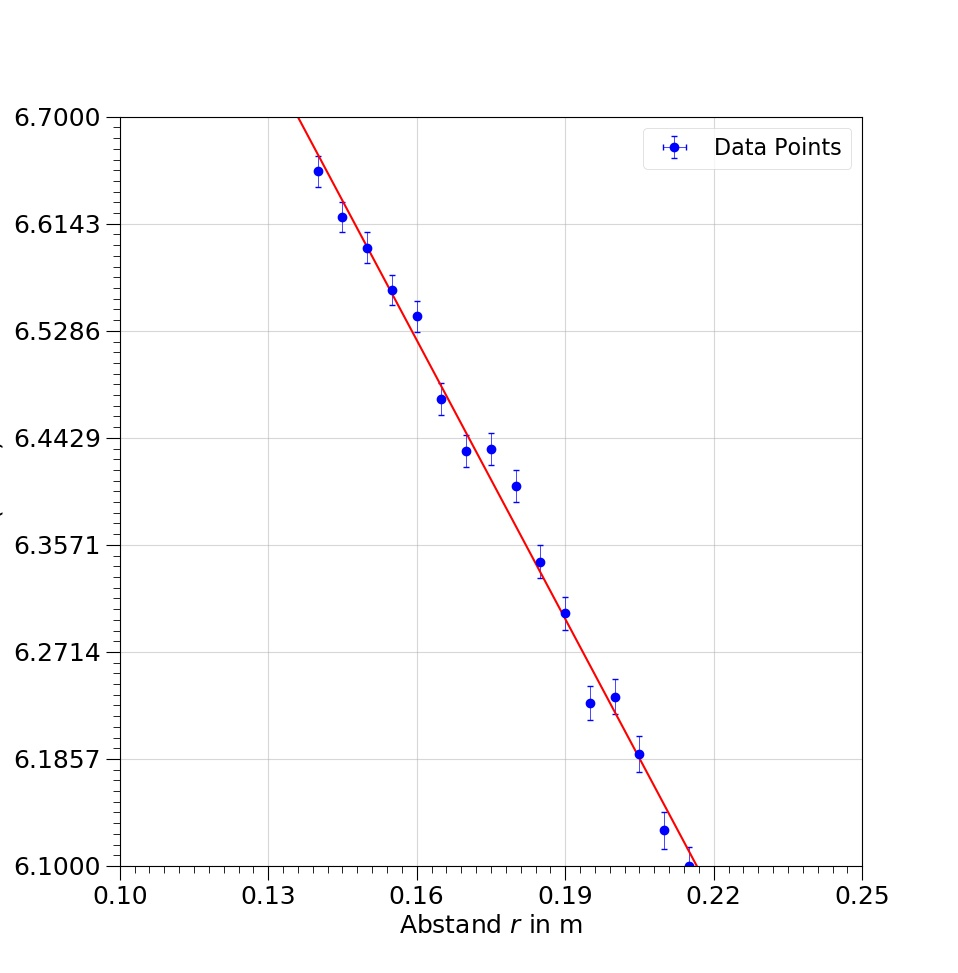
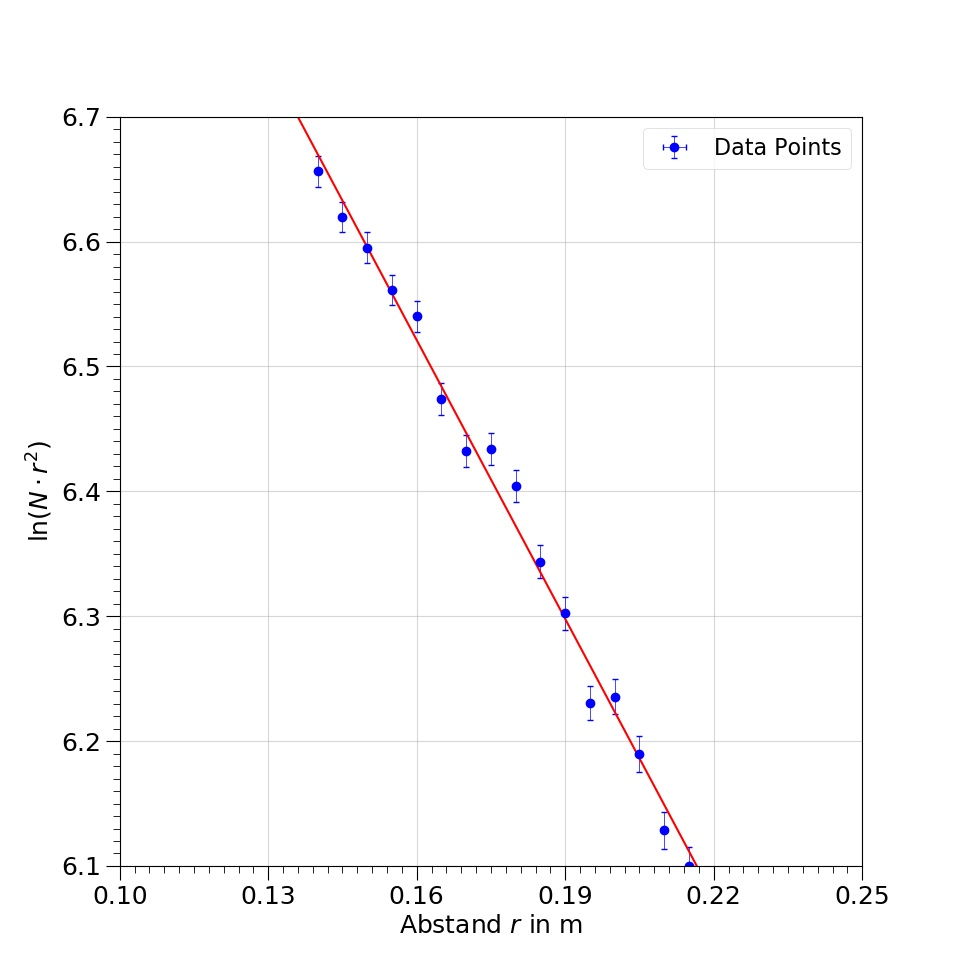
fig/plot.jpg

diff --git a/fit_template.py b/fit_template.py
@@ -26,8 +26,8 @@ y_err = delta
 
 print(y_err)
 # Achsenausschnitt auf der x und y Achse
-x_scal = np.array([0.1,0.3])
-y_scal = np.array([6,7])
+x_scal = np.array([0.1,0.25])
+y_scal = np.array([6.1,6.7])
 
 # FIGURE
 fig = plt.figure(figsize=(10,10))
@@ -47,11 +47,11 @@ perr_1 = np.sqrt(np.diag(pcov_1))
 
 
 ###################################### Hier nur Style #################################
-xmajor_ticks = np.arange(x_scal[0],x_scal[1]+0.01,(x_scal[1]-x_scal[0])/4)
-xminor_ticks = np.arange(x_scal[0],x_scal[1],(x_scal[1]-x_scal[0])/20)
+xmajor_ticks = np.arange(x_scal[0],x_scal[1]+0.01,(x_scal[1]-x_scal[0])/5)
+xminor_ticks = np.arange(x_scal[0],x_scal[1],(x_scal[1]-x_scal[0])/50)
 
-ymajor_ticks = np.arange(y_scal[0],y_scal[1]+0.1,(y_scal[1]-y_scal[0])/10)
-yminor_ticks = np.arange(y_scal[0],y_scal[1],(y_scal[1]-y_scal[0])/100)
+ymajor_ticks = np.arange(y_scal[0],y_scal[1]+0.001,(y_scal[1]-y_scal[0])/6)
+yminor_ticks = np.arange(y_scal[0],y_scal[1],(y_scal[1]-y_scal[0])/60)
 
 ax.set_xlim(x_scal[0],x_scal[1])
 ax.set_ylim(y_scal[0], y_scal[1])
@@ -76,7 +76,7 @@ ax.set_ylabel(r'$\ln(N\cdot r^2)$', fontsize=18)
 
 
 
-ax.errorbar(x_raw,y_raw, xerr=0, yerr=y_err, fmt='o', c='b', capsize=2, elinewidth=0.5,  label="ohne Cd") # Messdatenus
+ax.errorbar(x_raw,y_raw, xerr=0, yerr=y_err, fmt='o', c='b', capsize=2, elinewidth=0.5,  label="Data Points") # Messdatenus
 ax.plot(x_fit,y_fit, 'r')
 ax.text(0.15, 6.8, r'$\ln(N\cdot r^2)$ = '+str(a_1)+r'$\pm$'+str(round(perr_1[0],3))+r'$\cdot r^{-1}}$ + '+ str(abs(b_1))+r'$\pm$'+str(round(perr_1[1],3)), fontsize=16)
 ax.legend( loc="upper right",  prop={'size':16}).get_frame().set_linewidth(0.5)
@@ -84,4 +84,4 @@ ax.legend( loc="upper right",  prop={'size':16}).get_frame().set_linewidth(0.5)
 plt.show()
 
 # Save figure
-fig.savefig('../fig/plot.eps')
+fig.savefig('fig/plot.jpg')
